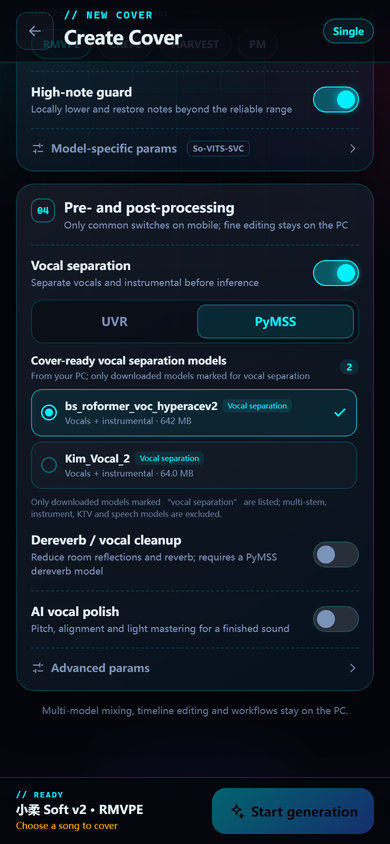
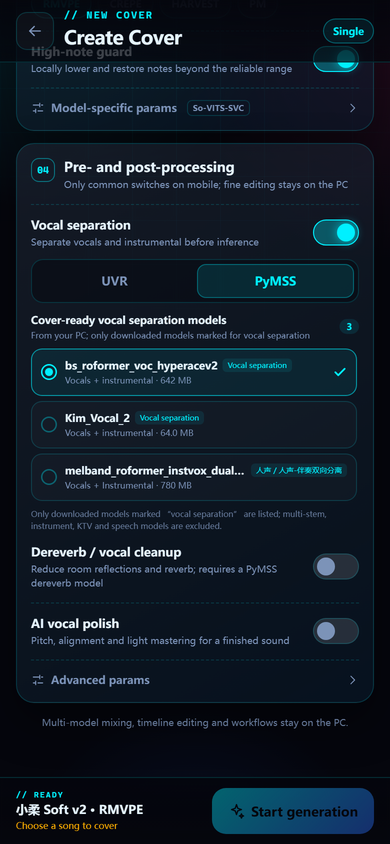
fix: keep instvox duality PyMSS models

diff --git a/web/src/utils/pymss.ts b/web/src/utils/pymss.ts
@@ -36,32 +36,45 @@ function normalizeStems(model: PymssModel): string[] {
 }
 
 /**
- * 与电脑端封面制作保持一致：只接受用途为人声分离、且输出包含人声的模型。
- * 多轨、单乐器、KTV/和声、男女声、语音/说话人、纯伴奏模型都会被排除。
+ * 与电脑端封面制作保持一致：只接受能够提供人声（以及可选伴奏）的分离模型。
+ *
+ * 目录里的 purpose 并不总是可靠：像 instvox_duality 这类双向模型，
+ * 分类可能不在桌面的 vocal_extraction 白名单里，purpose 为空，但它的
+ * target_stems 明确是 vocals/instrumental。这里优先相信目标音轨，
+ * purpose 仅作为没有音轨元数据时的回退。
  */
 export function isCoverSeparationModel(model: PymssModel): boolean {
-  if (model.purpose !== 'vocal_separation') return false
-  // 目录元数据偶尔把纯伴奏/多轨模型误标为人声分离，文件名再兜底一次。
-  if (
-    /(^|[_-])(inst|instrumental|karaoke|multi|speech|speaker|male|female|duet|guitar|bass|drum|piano)([_-]|$)/i.test(
-      model.name,
-    )
-  ) {
-    return false
-  }
+  if (model.purpose === 'dereverb' || model.purpose === 'harmony_removal') return false
+
   const stems = normalizeStems(model)
-  if (!stems.length) return true
-  if (stems.length > 2) return false
-
+  const name = model.name.toLowerCase()
+  const nameLooksUnsafe =
+    /(^|[_-])(inst|instrumental|karaoke|multi|speech|speaker|male|female|duet|guitar|bass|drum|piano)([_-]|$)/i.test(
+      name,
+    )
   const hasVocal = stems.some((stem) => /vocal|voice|人声/.test(stem))
-  if (!hasVocal) return false
-  if (stems.some((stem) => FORBIDDEN_STEMS.some((word) => stem.includes(word)))) return false
-
   const hasAccompaniment = stems.some((stem) =>
     /instrument|accompani|inst$|伴奏/.test(stem),
   )
-  // 单轨人声提取模型可以用于翻唱；双轨模型必须同时包含人声和伴奏。
-  return stems.length === 1 ? hasVocal : hasAccompaniment
+  const isInstVox = /instvox|inst_vox|instrumental[_-]?vocal|duality/i.test(name)
+
+  // 纯伴奏/多轨/语音模型即使目录元数据误标，也不能进入翻唱。
+  // instvox / inst_vox / duality 这类“人声-伴奏双向”命名例外。
+  if (nameLooksUnsafe && !isInstVox) return false
+
+  if (!stems.length) {
+    // 旧目录或精简接口没有目标音轨时，保留桌面的用途判断；
+    // 但文件名明显是纯伴奏/多轨/语音时不要放进来。
+    return model.purpose === 'vocal_separation'
+  }
+  if (stems.length > 2) return false
+  if (!hasVocal) return false
+  if (stems.some((stem) => FORBIDDEN_STEMS.some((word) => stem.includes(word)))) return false
+
+  // 音轨已明确包含人声时，优先相信音轨；instvox / inst_vox 这类
+  // 双向模型不能因为文件名带 inst 就被误杀。
+  if (stems.length === 1) return true
+  return hasAccompaniment
 }
 
 export function coverSeparationModels(models: PymssModel[]): PymssModel[] {

diff --git a/tools/mock-server.js b/tools/mock-server.js
@@ -230,6 +230,7 @@ const pymssModels = [
   ['bs_roformer_instrumental', 'BS-RoFormer', 'vocal_separation', '伴奏提取', '伴奏', 628, false],
   ['6_HP-Kim_Vocal_2.onnx', 'UVR', 'vocal_separation', '人声分离', '人声 / 伴奏', 66, false],
   ['UVR-MDX23C-vocals', 'MDX23C', 'vocal_separation', '人声分离', '人声 / 伴奏', 310, false],
+  ['melband_roformer_instvox_duality_v2.ckpt', 'Mel-Band RoFormer', '', '人声 / 人声-伴奏双向分离', 'vocals / instrumental', 780, true],
 ].map(([name, architecture, purpose, categoryLabel, target, size, downloaded]) => ({
   name,
   architecture,

diff --git a/README.md b/README.md
@@ -45,9 +45,12 @@ XB-SVCB 的 Android 伴生客户端，现已从桌面端仓库独立，拥有独
 - **歌曲名与时间轴歌词**：歌名自动填入或手改；从网易云 / QQ 音乐 / 酷我
   搜索候选、获取时间轴歌词，逐句生成分段并循环指派模型，之后可继续手动调整。
 - 音高偏移、F0 算法、高音保护、模型专用参数与 AI 美声。
-- **PyMSS 人声分离**：只显示已下载、用途为「人声分离」且输出包含人声的模型；
-  多轨、单乐器、纯伴奏、KTV/和声、男女声、语音/说话人模型会被过滤。选择器为
-  卡片列表，显示分类、输出音轨与体积，模型多时支持搜索。
+- **PyMSS 人声分离**：只显示已下载、能够提供人声的模型；
+  多轨、单乐器、纯伴奏、KTV/和声、男女声、语音/说话人模型会被过滤。
+  人声/伴奏双向模型（如 `instvox_duality`）即使目录 purpose 为空，
+  只要 `target_stems` 含 `vocals + instrumental` 也会保留；纯 `Inst`
+  伴奏模型仍然排除。选择器为卡片列表，显示分类、输出音轨与体积，
+  模型多时支持搜索。
 
 ### 模型与素材
 
